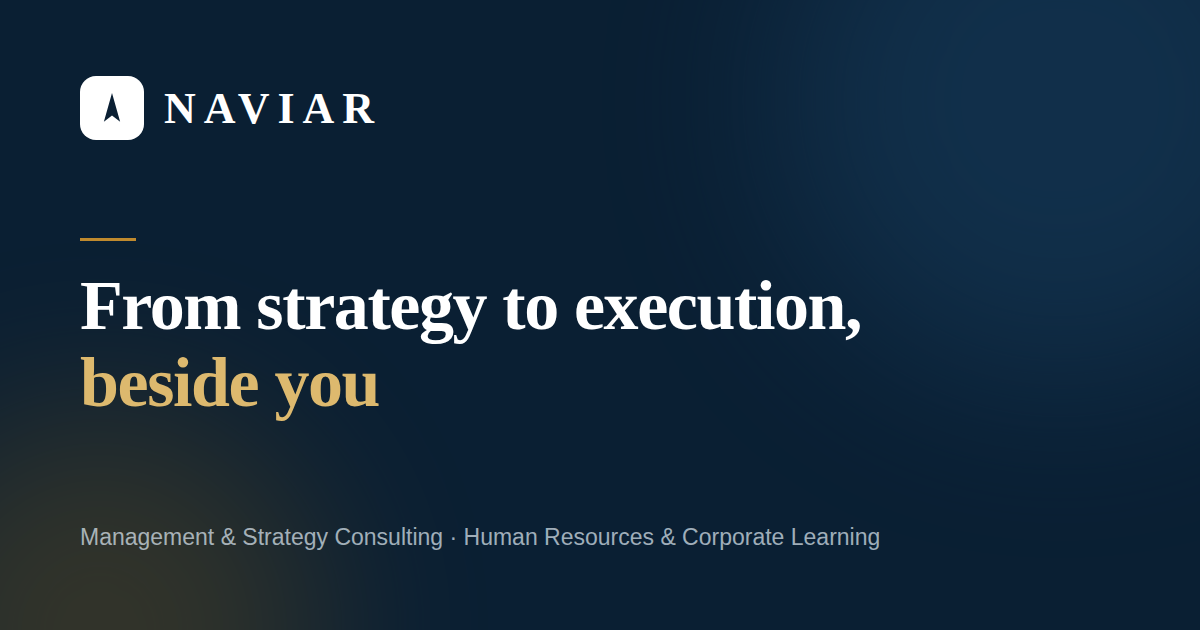
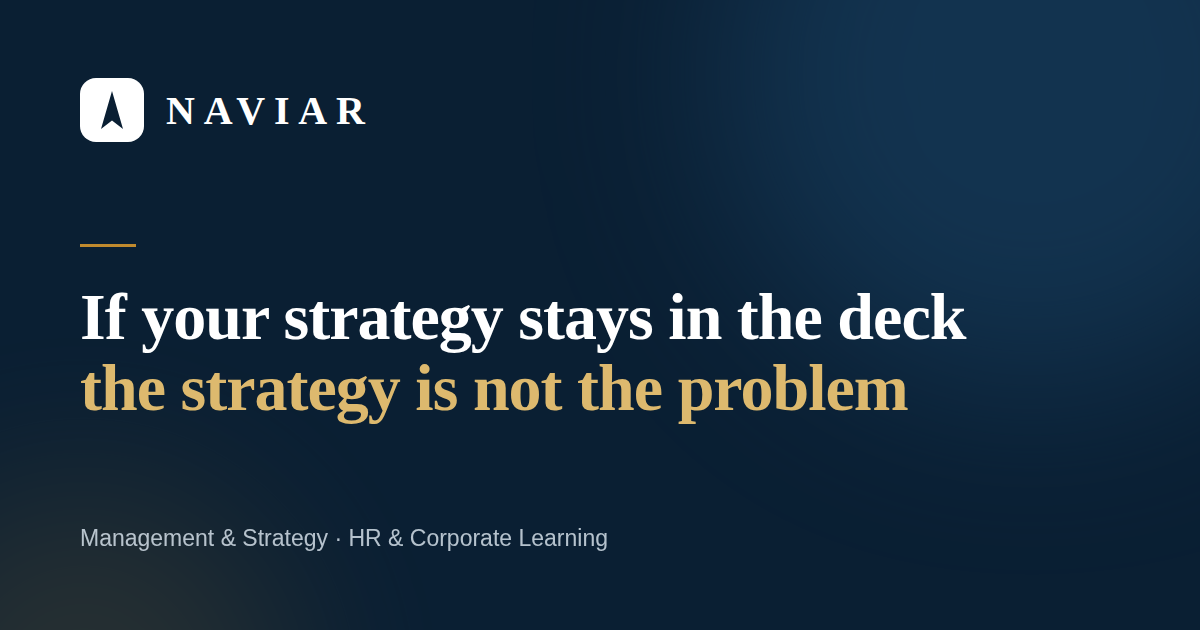
LinkedIn paylaşımı için sosyal görselleri üretilebilir hale getir
public/og-*.png elle eklenmiş ikili dosyalardı ve üretim kaynağı yoktu.
Slogan ya da palet değişince kimse yeniden üretemiyordu. scripts/social-assets.mjs
artık kaynağı tutuyor: gerçek marka yazı tipleri (Source Serif 4 + Inter),
icon.svg ile birebir aynı işaret, globals.css'teki renkler.

npm run assets:social dört dosya üretiyor. Betik önce hepsini belleğe alıp
sonra yazıyor; biri başarısız olursa public/ altında yarım set kalmıyor.

LinkedIn'in kendi yerleşimi iki düzeltme gerektirdi:

Şirket sayfası logosu akışta 48px'e kadar küçülüyor. İlk denemede altına
kelime markası koymuştum; o boyutta okunmaz bir lekeye dönüşüyordu. Yalnızca
işaret kaldı.

Kapak görselinde logo rozeti sol alta biniyor. İçerik solda başlıyordu ve
rozetin altında kalacaktı; sol 260px bilinçli olarak boş bırakıldı.

og:image:alt yalnızca "NAVIAR" diyordu. Paylaşımı ekran okuyucuyla duyan kişi
bağlantının neden paylaşıldığını öğrenemiyordu; iki dilde de görseli anlatan
metin yazıldı.

seo.test.ts o alt metnin birebir kendisini bekliyordu ve metin iyileşince
kırıldı — testin hatasıydı. Artık sözleşmeye bakıyor: doğru dosya, LinkedIn'in
istediği en az 1200x627 ölçü, dile göre farklılaşan ve marka adından ibaret
olmayan alt metin.

npm run check yeşil (89 test), build temiz (49 rota), a11y 34 görünümde sıfır.

Claude-Session: https://claude.ai/code/session_0142B5ohHr5Bny9UGATeeGQM

diff --git a/tests/seo.test.ts b/tests/seo.test.ts
@@ -4,7 +4,7 @@ import robots from "@/app/robots";
 import { pageMetadata } from "@/lib/metadata";
 import { articleIds } from "@/content/articles";
 import { jobIds } from "@/content/jobs";
-import { locales, path, routeKeys, siteUrl } from "@/lib/i18n";
+import { locales, ogImage, path, routeKeys, siteUrl } from "@/lib/i18n";
 
 const entries = sitemap();
 
@@ -105,14 +105,23 @@ describe("sayfa metadatası", () => {
   });
 
   it("Open Graph görseli dile göre değişir", () => {
-    const tr = pageMetadata({ key: "home", locale: "tr", title: "t", description: "d" });
-    const en = pageMetadata({ key: "home", locale: "en", title: "t", description: "d" });
-    expect(tr.openGraph?.images).toEqual([
-      { url: "/og-tr.png", width: 1200, height: 630, alt: "NAVIAR" },
-    ]);
-    expect(en.openGraph?.images).toEqual([
-      { url: "/og-en.png", width: 1200, height: 630, alt: "NAVIAR" },
-    ]);
+    // Metnin kendisine değil, sözleşmeye bakılır: doğru dosya, LinkedIn'in
+    // istediği ölçü ve dile göre farklılaşan açıklayıcı bir alt metin.
+    // Cümlenin birebir kendisini beklemek, metin iyileştirilince testi kırardı.
+    for (const [locale, dict] of [
+      ["tr", ogImage("tr")],
+      ["en", ogImage("en")],
+    ] as const) {
+      const meta = pageMetadata({ key: "home", locale, title: "t", description: "d" });
+      expect(meta.openGraph?.images).toEqual([dict]);
+      expect(dict.url).toBe(`/og-${locale}.png`);
+      // LinkedIn en az 1200×627 ister; altına düşersek önizleme küçük kart olur.
+      expect(dict.width).toBeGreaterThanOrEqual(1200);
+      expect(dict.height).toBeGreaterThanOrEqual(627);
+      // Alt metin görseli anlatmalı; yalnızca marka adı bilgi taşımaz.
+      expect(dict.alt.length).toBeGreaterThan(40);
+    }
+    expect(ogImage("tr").alt).not.toBe(ogImage("en").alt);
   });
 });
 

diff --git a/src/lib/i18n.ts b/src/lib/i18n.ts
@@ -82,12 +82,22 @@ export function absoluteUrl(pathname: string): string {
   return `${siteUrl}${pathname}`;
 }
 
-/** Dile göre sosyal paylaşım görseli (public/ altında). */
+/**
+ * Dile göre sosyal paylaşım görseli (`public/` altında,
+ * `npm run assets:social` ile üretilir).
+ *
+ * `alt` görselin içeriğini anlatır: paylaşımı ekran okuyucuyla duyan kişi
+ * yalnızca "NAVIAR" duyuyordu, bu da bağlantının neden paylaşıldığını
+ * söylemiyor.
+ */
 export function ogImage(locale: Locale) {
   return {
     url: `/og-${locale}.png`,
     width: 1200,
     height: 630,
-    alt: "NAVIAR",
+    alt:
+      locale === "tr"
+        ? "NAVIAR — Stratejiniz sunumda kalıyorsa sorun strateji değil. Yönetim & strateji, insan kaynakları ve kurumsal eğitim danışmanlığı."
+        : "NAVIAR — If your strategy stays in the deck, the strategy is not the problem. Management and strategy, HR and corporate learning consultancy.",
   };
 }
